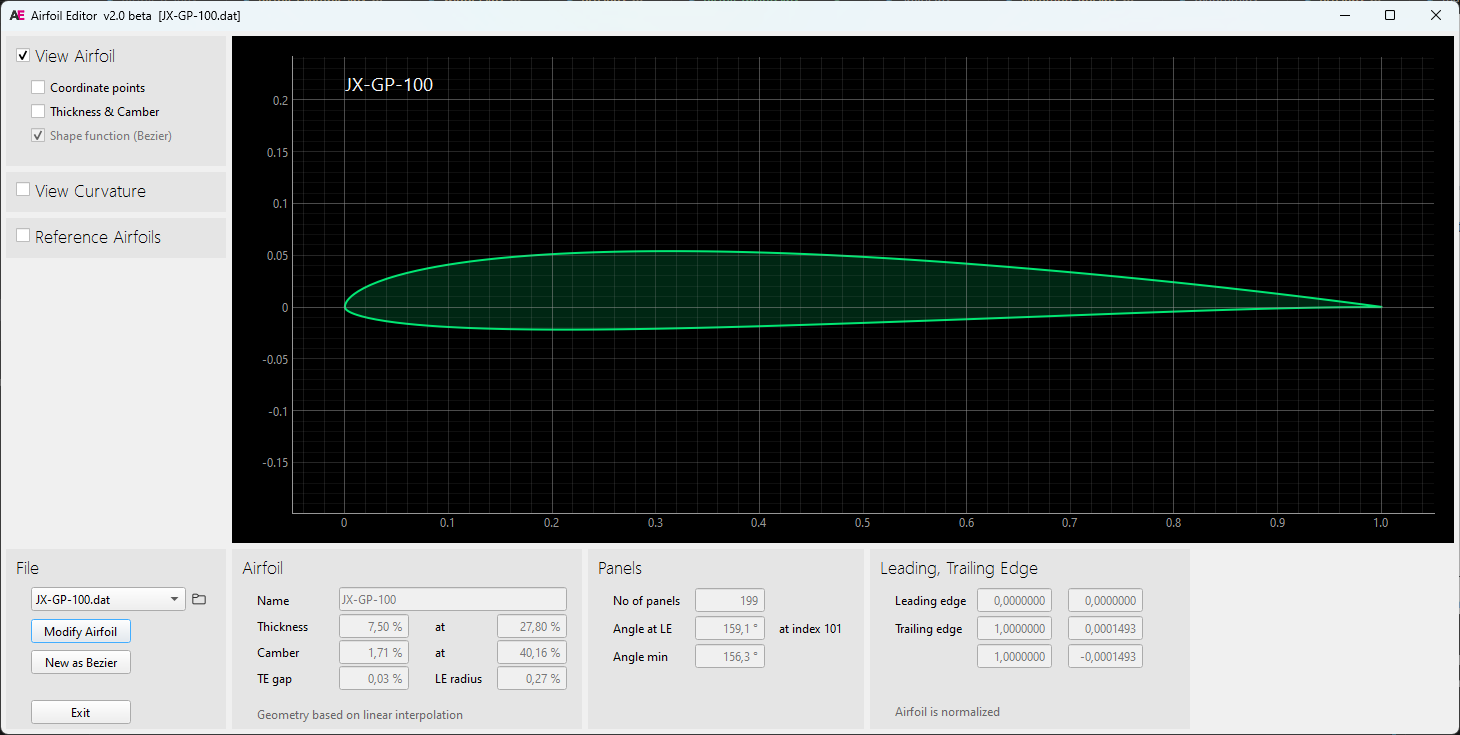
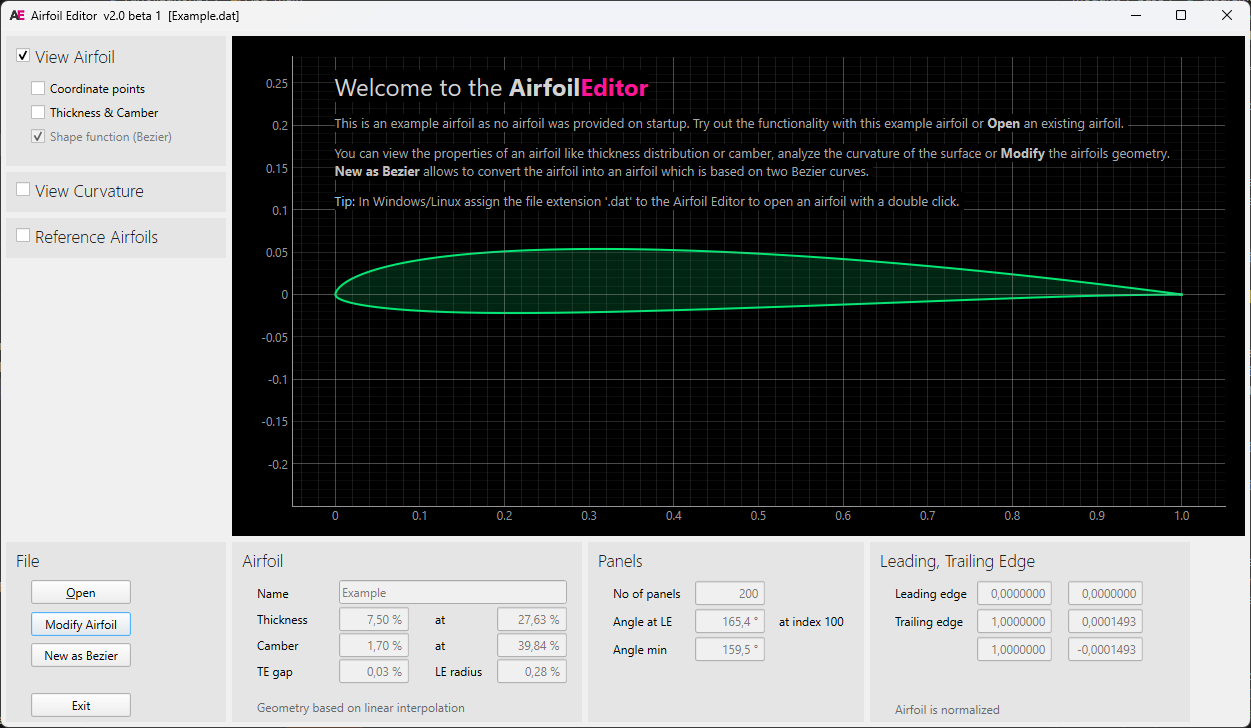
preparing first release

diff --git a/AirfoilEditor.py b/AirfoilEditor.py
@@ -362,8 +362,7 @@ class App_Main (QMainWindow):
 
         message = """
 <p><span style="background-color: black">
-<span style="font-size: 18pt; color: whiteSmoke; ">Welcome to the Airfoil</span> <span style="font-size: 18pt; color: deeppink">Editor</span>
-</span></p>
+<span style="font-size: 18pt; color: lightgray; ">Welcome to the <strong>Airfoil<span style="color:deeppink">Editor</span></strong></span></p>
 <p><span style="background-color: black">
 This is an example airfoil as no airfoil was provided on startup. Try out the functionality with this example airfoil or <strong><span style="color: silver;">Open&nbsp;</span></strong>an existing airfoil.
 </span></p>
@@ -1463,7 +1462,7 @@ if __name__ == "__main__":
     if args.airfoil: 
         airfoil_file = args.airfoil[0]
     else: 
-        if os.path.isdir(".\\test_airfoils"):
+        if os.path.isdir(".\\test_airfoilsss"):
             airfoil_dir   =".\\test_airfoils"
             airfoil_files = [os.path.join(airfoil_dir, f) for f in os.listdir(airfoil_dir) if os.path.isfile(os.path.join(airfoil_dir, f))]
             airfoil_files = [f for f in airfoil_files if (f.endswith('.dat') or f.endswith('.bez'))]       

diff --git a/README.md b/README.md
@@ -1,46 +1,46 @@
-# Airfoil Editor v2.0 beta
+![AE](images/AirfoilEditor_logo.png "Screenshot of the AirfoilEditor ")
+
+# v2.0 beta
 
 
-> [!NOTE]
- This is the development branch of AirfoilEditor 2.0 based on PyQt6
+The AirfoilEditor is on one hand a fast airfoil viewer and on the other hand a powerful editor to modify the geomtery of an airfoil. Forcusing on an airfoils geometry the principle of this app is: Don't do too much but do it really well.
 
----
 
-The AirfoilEditor is on the one hand a fast airfoil viewer tool and on the other hand a powerful editor to modify the geomtery of an airfoil.
+Main features:  
+
+* View an air foil and browse through the airfoils of its subdirectory
+* View the curvature of the airfoil surface
+* Repanel and normalize the airfoil
+* Modify the geometry parameters thickness, camber, its high points, trailing edge gap  
+* Create a Bezier curve based 'copy' of an airfoil 
+* (not in 2.0 beta) Merge an airfoil with another airfoil 
+
+The driver for this app was to overcome some of the artefacts using xfoils geometry routines (for example used in Xflr5) when creating geometric 'high quality' airfoils. The focus of the app is on pure geometry work with airfoils - aerodynamic aspects are out of scope. 
+
+An attempt was made to create a self-explanatory app that invites to play and try out. Hopefully this objective has been achieved ... 
 
 
 ![AE](images/AirfoilEditor_App.png "Screenshot of the AirfoilEditor ")
 
-Main features:  
-
-* View an air
-foil and browse through the airfoils of its subdirectory
-* View the curvature of the airfoil surface
-* Repanel and normalize the airfoil
-* Modify the geometry parameters thickness, camber and their high points 
-* Set trailing edge gap 
-* Merge an airfoil with another airfoil 
-* Create a Bezier based 'copy' of an airfoil 
-
-The driver for this app was to overcome some of the artefacts using xfoils geometry routines (for example used in Xflr5) when trying to create geometric 'high quality' airfoils. The focus of the app is on pure geometry work with airfoils. 
 
 ## Basic concepts
 
-The `AirfoilEditor` implements different "strategies" to represent the geometry of an airfoil:
+The `AirfoilEditor` implements different "strategies" to represent an airfoils geometry:
 
-- 'Linear interpolation' -  Based on the point coordinates coming from the airfoils '.dat' file, intermediate points are evaluated with a simple linear interpolation. This is used for fast preview and basic operations.
-- 'Cubic spline interpolation' - A cubic spline is built based on the point coordinates coming from the airfoils '.dat' file. The spline allows to evlauate intermediate points with high precision 
-nelder mead
+- 'Linear interpolation' -  Based on the point coordinates of the airfoils '.dat' file, intermediate points are evaluated with a simple linear interpolation. This is used for fast preview and basic operations.
+- 'Cubic spline interpolation' - A cubic spline is built based on the airfoils point coordinates. The spline allows to evlauate intermediate points with high precision.
 - 'Bezier curve' - An airfoil is represented by two Bezier curves for upper and lower side of the airfoil. A nelder mead optimization allows to approximate the Bezier curves to an existing airfoil.
-- 'Hicks Henne' - Hicks Henne bump functions are applied to a "seed airfoil" to achieve a new shape (in development for Xoptfoil2)  
+- (not in 2.0 beta) 'Hicks Henne' - Hicks Henne bump functions are applied to a "seed airfoil" to achieve a new shape (in development for Xoptfoil2)  
 
 The spline interpolation is used to find the position of the 'real' leading edge, which may differ from the leading edge of the coordinates (which is the point with the smallest x-value). When 'normalizing' the airfoil, the 'real' leading edge is taken in an iteration to rotate, stretch and move the airfoil to become 0,0 - 1,0 normalized.
 
 For thickness and camber geometry operations the airfoil (spline) is splitted into two new splines representing thickness and camber distribution. For moving the highpoint of either thickness or camber a mapping spline for the airfoil coordinates is used quite similar to the approach implemented in xfoil. After these operations the airfoil is rebuild out of thickness and camber. 
 
+The same approach is applied to move the highpoint of the upper and lower side of the airfoil which makes it possible to optimize the upper and lower side independently of each other.
+
 ![Modify](images/Modify.png "Screenshot of Modifying Airfoil")
 
-Repaneling is based on a modified cosinus distribution of the airfoil points on the arc of the spline. This differs from the xfoil approach but the repanel shows are 'nice' behaviour in aero calculation. 
+Repaneling is based on a modified cosinus distribution of the airfoil points on the arc of the spline. This differs from the xfoil approach but the repanel shows 'nice' behaviour in aero calculation. 
 
 As an exmaple for the modification functionality of the app, the dialog for repaneling is shown:  
 
@@ -52,7 +52,6 @@ As an exmaple for the modification functionality of the app, the dialog for repa
 
 On of the major views on an airfoil in the Airfoil Editor is the curvature of the airfoils surface. It allows a quick assessment of the surface quality and to detect artefacts like a 'spoiler' at the trailing edge which is quite common. 
 
-As the curvature changes from very high values at the leading edge to very low values towards the trailing edge, a logarithmic scale can be applied in the diagram to improve overview.  
 
 ![Curvature](images/Curvature.png "Screenshot of Curvature")
 
@@ -60,7 +59,7 @@ As the curvature changes from very high values at the leading edge to very low v
 
 Beside '.dat'-files the Airfoil Editor seamlessly displays '.bez'-Files defining an Bezier based airfoil. 
 
-![PC2](images/AirfoilEditor_bezier1.png "Screenshot of Bezier curve definition")
+![Bezier](images/Bezier.png "Screenshot of Bezier curve definition")
 
 A '.bez'-file defines the x,y coordinates of the Bezier control points and looks like: 
 ```
@@ -80,16 +79,16 @@ Bottom Start
 Bottom End
 ````
 
-
-A little bit hidden is the feature to define a (new) airfoil based on two Bezier curves for upper and lower side. The Bezier editor allows to move the control points of the curve by mouse.
+A special feature is the definition of a (new) airfoil based on two Bezier curves for upper and lower side. The Bezier editor allows to move the control points of the curve by mouse.
 
 The 'Match' function performs a best match of the Bezier curve to an existing airfoil. For this a simplex optimization (Nelder Mead) is performed to 
 - minimize the norm2 deviation between the Bezier curve and the target airfoil
-- align the curvature of the Bezier curve at leading and trailing to the targets curvature.  
+- align the curvature of the Bezier curve at leading and trailing to the targets curvature. 
+- ensure the curvature at leading edge on upper and lower side is equal 
 
 
 ![AE](images/Match_Bezier.png "Screenshot of Bezier curve definition")
-<sup>Dialog for Bezier curve approximation. In this example the upper Bezier curve having 6 control points was 'matched' to the target airfoil at 4 controil points (Leading andtrailing edge are fixed). </sup>
+
 
 <!---
 ## Hicks-Henne based airfoils 
@@ -104,9 +103,22 @@ The Airfoil Editor allows to visualize the Hicks-Henne functions which were appl
 
 -->
 
+## Software Aspects
+
+The `AirfoilEditor` is developed in  [Python](https://www.python.org/) using [PyQt6](https://pypi.org/project/PyQt6/) which wraps and extends the [Qt UI framework](https://www.qt.io/product/framework) and [PyQtGraph](https://www.pyqtgraph.org/) which wraps the QT Graphics framework. 
+
+The main building blocks of the App are
+* Model - containing all geometry and math helper routines of an airfoil. The model is independent of the UI. The different modules are kept in [modules/model](modules/model).
+
+* UI-Framework - base classes and a little framework to ease the implementation of forms bassed on widgets and diagrams based on artists for the plot tasks. The base classes are in [modules/base](modules/base) 
+
+* Application - controller and view classes to handle presentation and user interaction - [modules/](modules/) 
+
+The airfoil model and the base classes also form the core of the other Apps of the family like `Planform Creator` and `Airfoil Optimizer` (to come). 
+
 ##  Install
 
-A pre-build Windows-Exe of both apps is available in the releases section https://github.com/jxjo/AirfoilEditor/releases  
+A pre-build Windows-Exe of the app is available in the releases section https://github.com/jxjo/AirfoilEditor/releases  
 
 or 
 
